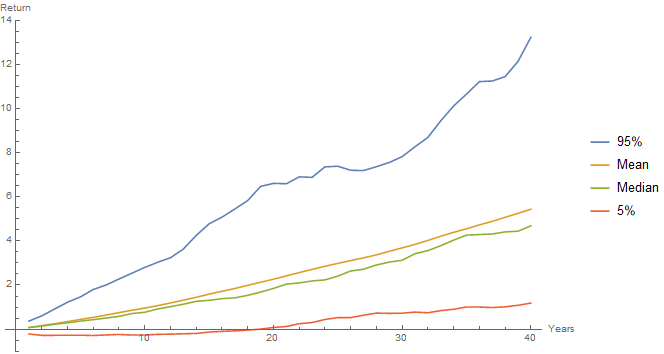
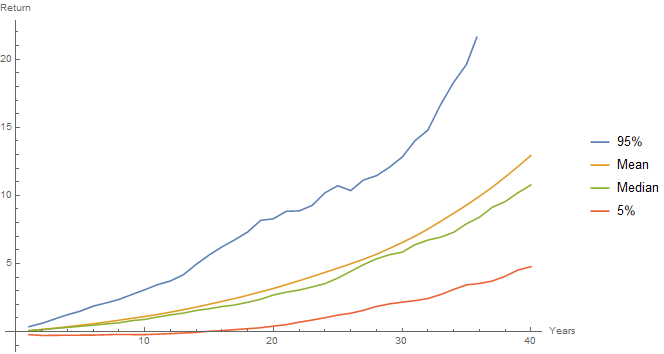
Fixed dividend calculations.

diff --git a/content/blog/safest-bet.md b/content/blog/safest-bet.md
@@ -156,8 +156,8 @@ periods). Let's see what this means for the probability of loss:
 
 {style="text-align: center"}![sp500 with dividends loss](/images/sp500-loss.png)
 
-Holy-moly - the probability of loss is essentially 0 if we hold our portfolio
-for a little longer than 20 years.
+Holy-moly - the probability of loss is 0 if we hold our portfolio for longer 
+than 20 years.
 
 **Think how remarkable this result is:** we used stock history spanning
 two world wars, the Great Depression and the Great Recession. Even if you had to 
@@ -179,12 +179,12 @@ plot below shows the distribution of yields for the stock and bond strategies:
 
 {style="text-align: center"}![yields](/images/yields.png)
 
-If you look carefully enough, you can see that for holding periods of less than 
-14 years the stock strategy is a lot more risky than the bond. However if your 
-holding period exceeds 14 years the stock strategy is both, less risky and
-yielding better returns. Also notice that in long term, the width of the yield
-distribution for the stock strategy is about the same as for bonds, but overall
-it is shifted up by several percent.
+You can see that for holding periods of less than 9 years the stock strategy is 
+a lot more risky than the bond. However if your holding period exceeds 9 years 
+the stock strategy is both, less risky and yielding better returns. Also notice 
+that in long term, the width of the yield distribution for the stock strategy is 
+about the same as for bonds, but overall it is located above bond yield 
+distribution.
 
 What does it all mean for regular folks that are trying to save for the 
 retirement? Don't worry about whether the market is trending up or down, it's in 
